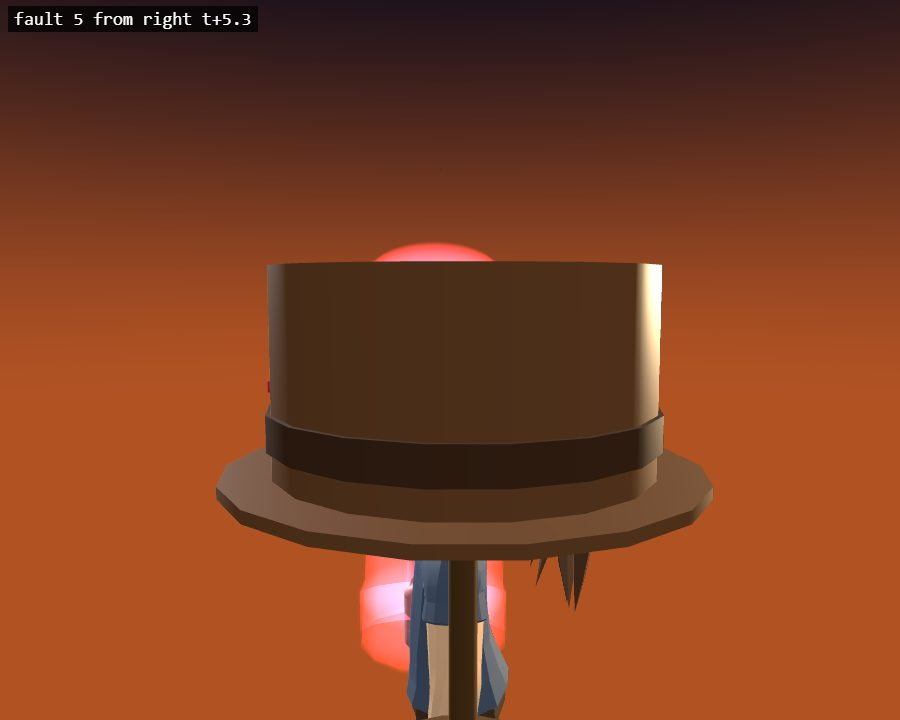
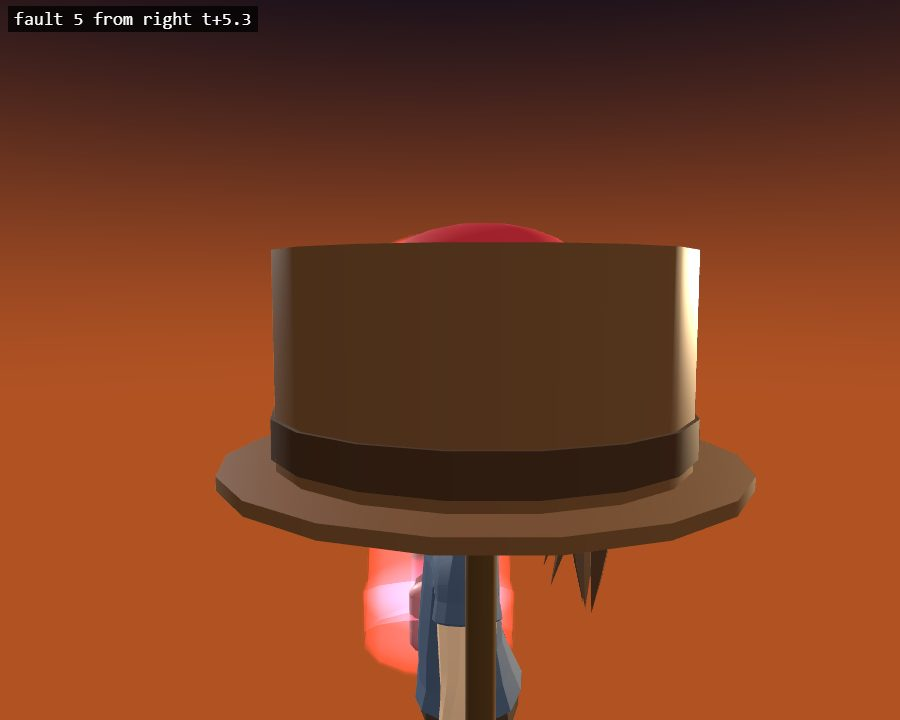
Qwen: 017-tamesu-hats round 2

Changed region(s): [[0.2178, 0.3056, 0.84, 1.0]]

diff --git a/src/effects/vignettes/q-try-hats.js b/src/effects/vignettes/q-try-hats.js
@@ -17,7 +17,7 @@ import { grow } from './step1-kit.js';
 import { pop, onHead, ADULT } from './q-common.js';
 
 const XN = new THREE.Vector3(1, 0, 0), NX = new THREE.Vector3(-1, 0, 0);   // the palm's way to each hat's near edge
-const W = new THREE.Vector3();
+const W = new THREE.Vector3(), WS = new THREE.Vector3();
 
 function tryHats(ctx, spec, stage) {
   const u = stage.u, B = stage.box, group = new THREE.Group(), floor = B.minY, k = (x) => x * u, X = (x) => B.maxX + x * u;
@@ -96,13 +96,15 @@ function tryHats(ctx, spec, stage) {
       }
       const cs = v < 7.2 ? 1 : v < 7.5 ? 1 - between(v, 7.2, 7.5) : grow(between(v, 7.5, 8.0));
       cap.scale.setScalar(cs); cap.visible = cs > 0.01;
-      // her left hand (the learner's right) takes each hat at its near edge, the palm against the brim, never inside
-      const g1 = between(v, 0.5, 0.6) * (1 - between(v, 1.75, 1.95));
+      // her left hand (the learner's right) takes each hat at its near edge, the palm against the brim, never inside;
+      // the grip's target and way live in the group's space, turned into the world space the hand IK works in
+      const ws = group.getWorldScale(WS).y, way = (d) => d.transformDirection(group.matrixWorld);
+      const g1 = between(v, 1.0, 1.15) * (1 - between(v, 1.3, 1.5));
       const g2 = between(v, 3.1, 3.25) * (1 - between(v, 3.4, 3.6));
-      const g3 = between(v, 4.3, 4.45) * (1 - between(v, 4.65, 4.85));
-      if (g1 > 0) who.grip('L', W.set(X(1.01), floor + 0.78 * u, -0.06 * u), XN, 0.012 * u, g1, { out: 0.7, down: 0.5 });
-      else if (g2 > 0) who.grip('L', W.set(X(1.04), floor + (PB.y + 0.06 * between(v, 3.1, 3.4)) * u, PB.z * u), NX, 0.012 * u, g2, { out: 0.7, down: 0.5 });
-      else if (g3 > 0) who.grip('L', W.set(X(1.09), floor + 0.47 * u, -0.06 * u), XN, 0.015 * u, g3, { out: 0.7, down: 0.5 });
+      const g3 = between(v, 4.3, 4.45) * (1 - between(v, 4.6, 4.8));
+      if (g1 > 0) who.grip('L', group.localToWorld(W.set(X(1.06), floor + 0.80 * u, -0.06 * u)), way(XN), 0.012 * u * ws, g1, { out: 0.7, down: 0.5 });
+      else if (g2 > 0) who.grip('L', group.localToWorld(W.set(X(1.02), floor + (PB.y + 0.06 * between(v, 3.1, 3.4)) * u, PB.z * u)), way(NX), 0.012 * u * ws, g2, { out: 0.7, down: 0.5 });
+      else if (g3 > 0) who.grip('L', group.localToWorld(W.set(X(1.13), floor + 0.47 * u, -0.06 * u)), way(XN), 0.012 * u * ws, g3, { out: 0.7, down: 0.5 });
       // pleased: hearts pop beside her head
       pop(h1, between(v, 6.4, 6.7), X(0.5), floor + 1.0 * u, 0.06 * u);
       pop(h2, between(v, 6.6, 6.9), X(1.1), floor + 1.06 * u, 0.06 * u);

diff --git a/src/effects/vcat-qw.js b/src/effects/vcat-qw.js
@@ -6,5 +6,5 @@ export const QW = {
   'q-power': VM(pdc('guy3') + 8, '力 (guy3): a man bends down, grips a barbell with huge black plates and heaves it up to his chest, trembling; he drops it with a thud (the kanji jumps) and cheers with both arms up', ['guy3']),
   'q-part-ways': VM(pdc('gal2', 'guy2') + 4, '別 (gal2, guy2): two friends walk together down a path toward you; where it forks they stop, turn to each other and wave goodbye, then walk off down the two branches and wave once more from far apart, as the kanji splits in two', ['gal2', 'guy2']),
   'q-ponder': VM(pdc('grandpa') + 13, '考 (grandpa): an old man sits on a cushion before a shogi board, hand on his chin, a thought bubble with a ? over him; the ? turns into a lightbulb, his finger goes up, he leans in and moves a piece, and nods', ['grandpa']),
-  'q-try-hats': VM(pdc('gal') + 4, '試 (gal): a woman tries on hats: the big brown one drops over her eyes, she shakes her head and hangs it back; the small red one fits, and she poses happily', ['gal']),
+  'q-try-hats': VM(pdc('gal') + 9, '試 (gal): a woman tries on hats: the big brown one drops over her eyes, she shakes her head and hangs it back; the small red one fits, and she poses happily', ['gal']),
 };
